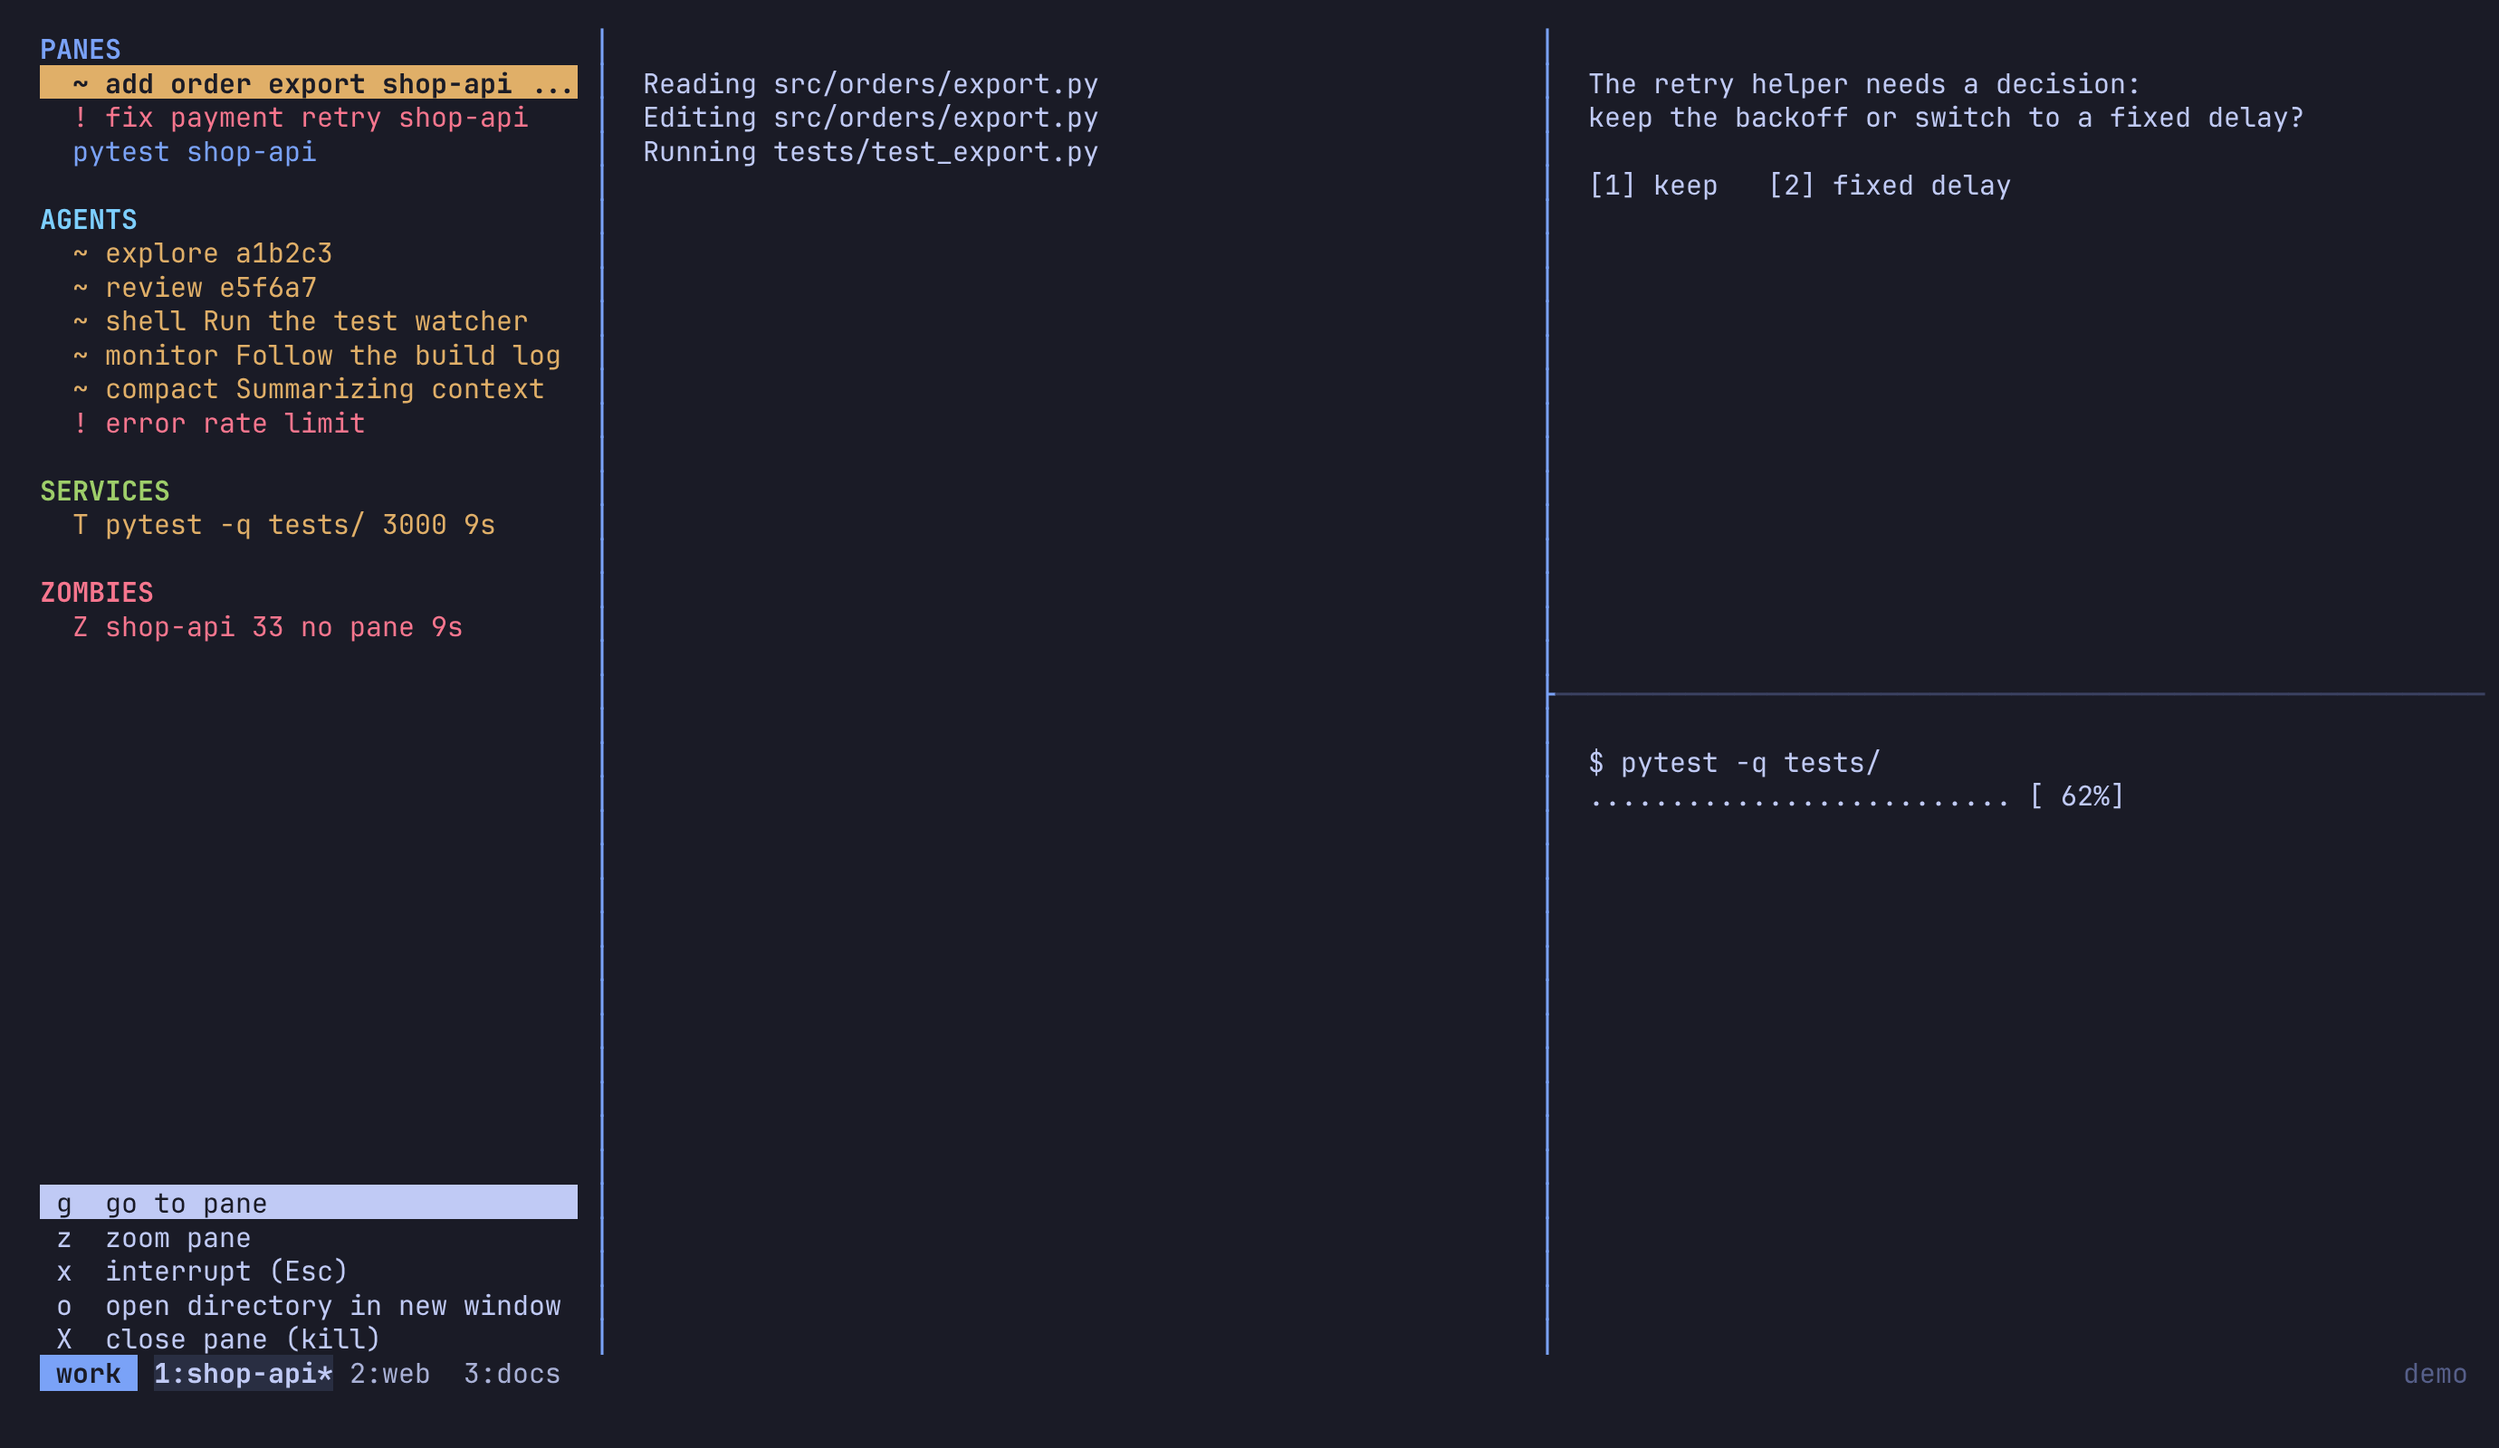
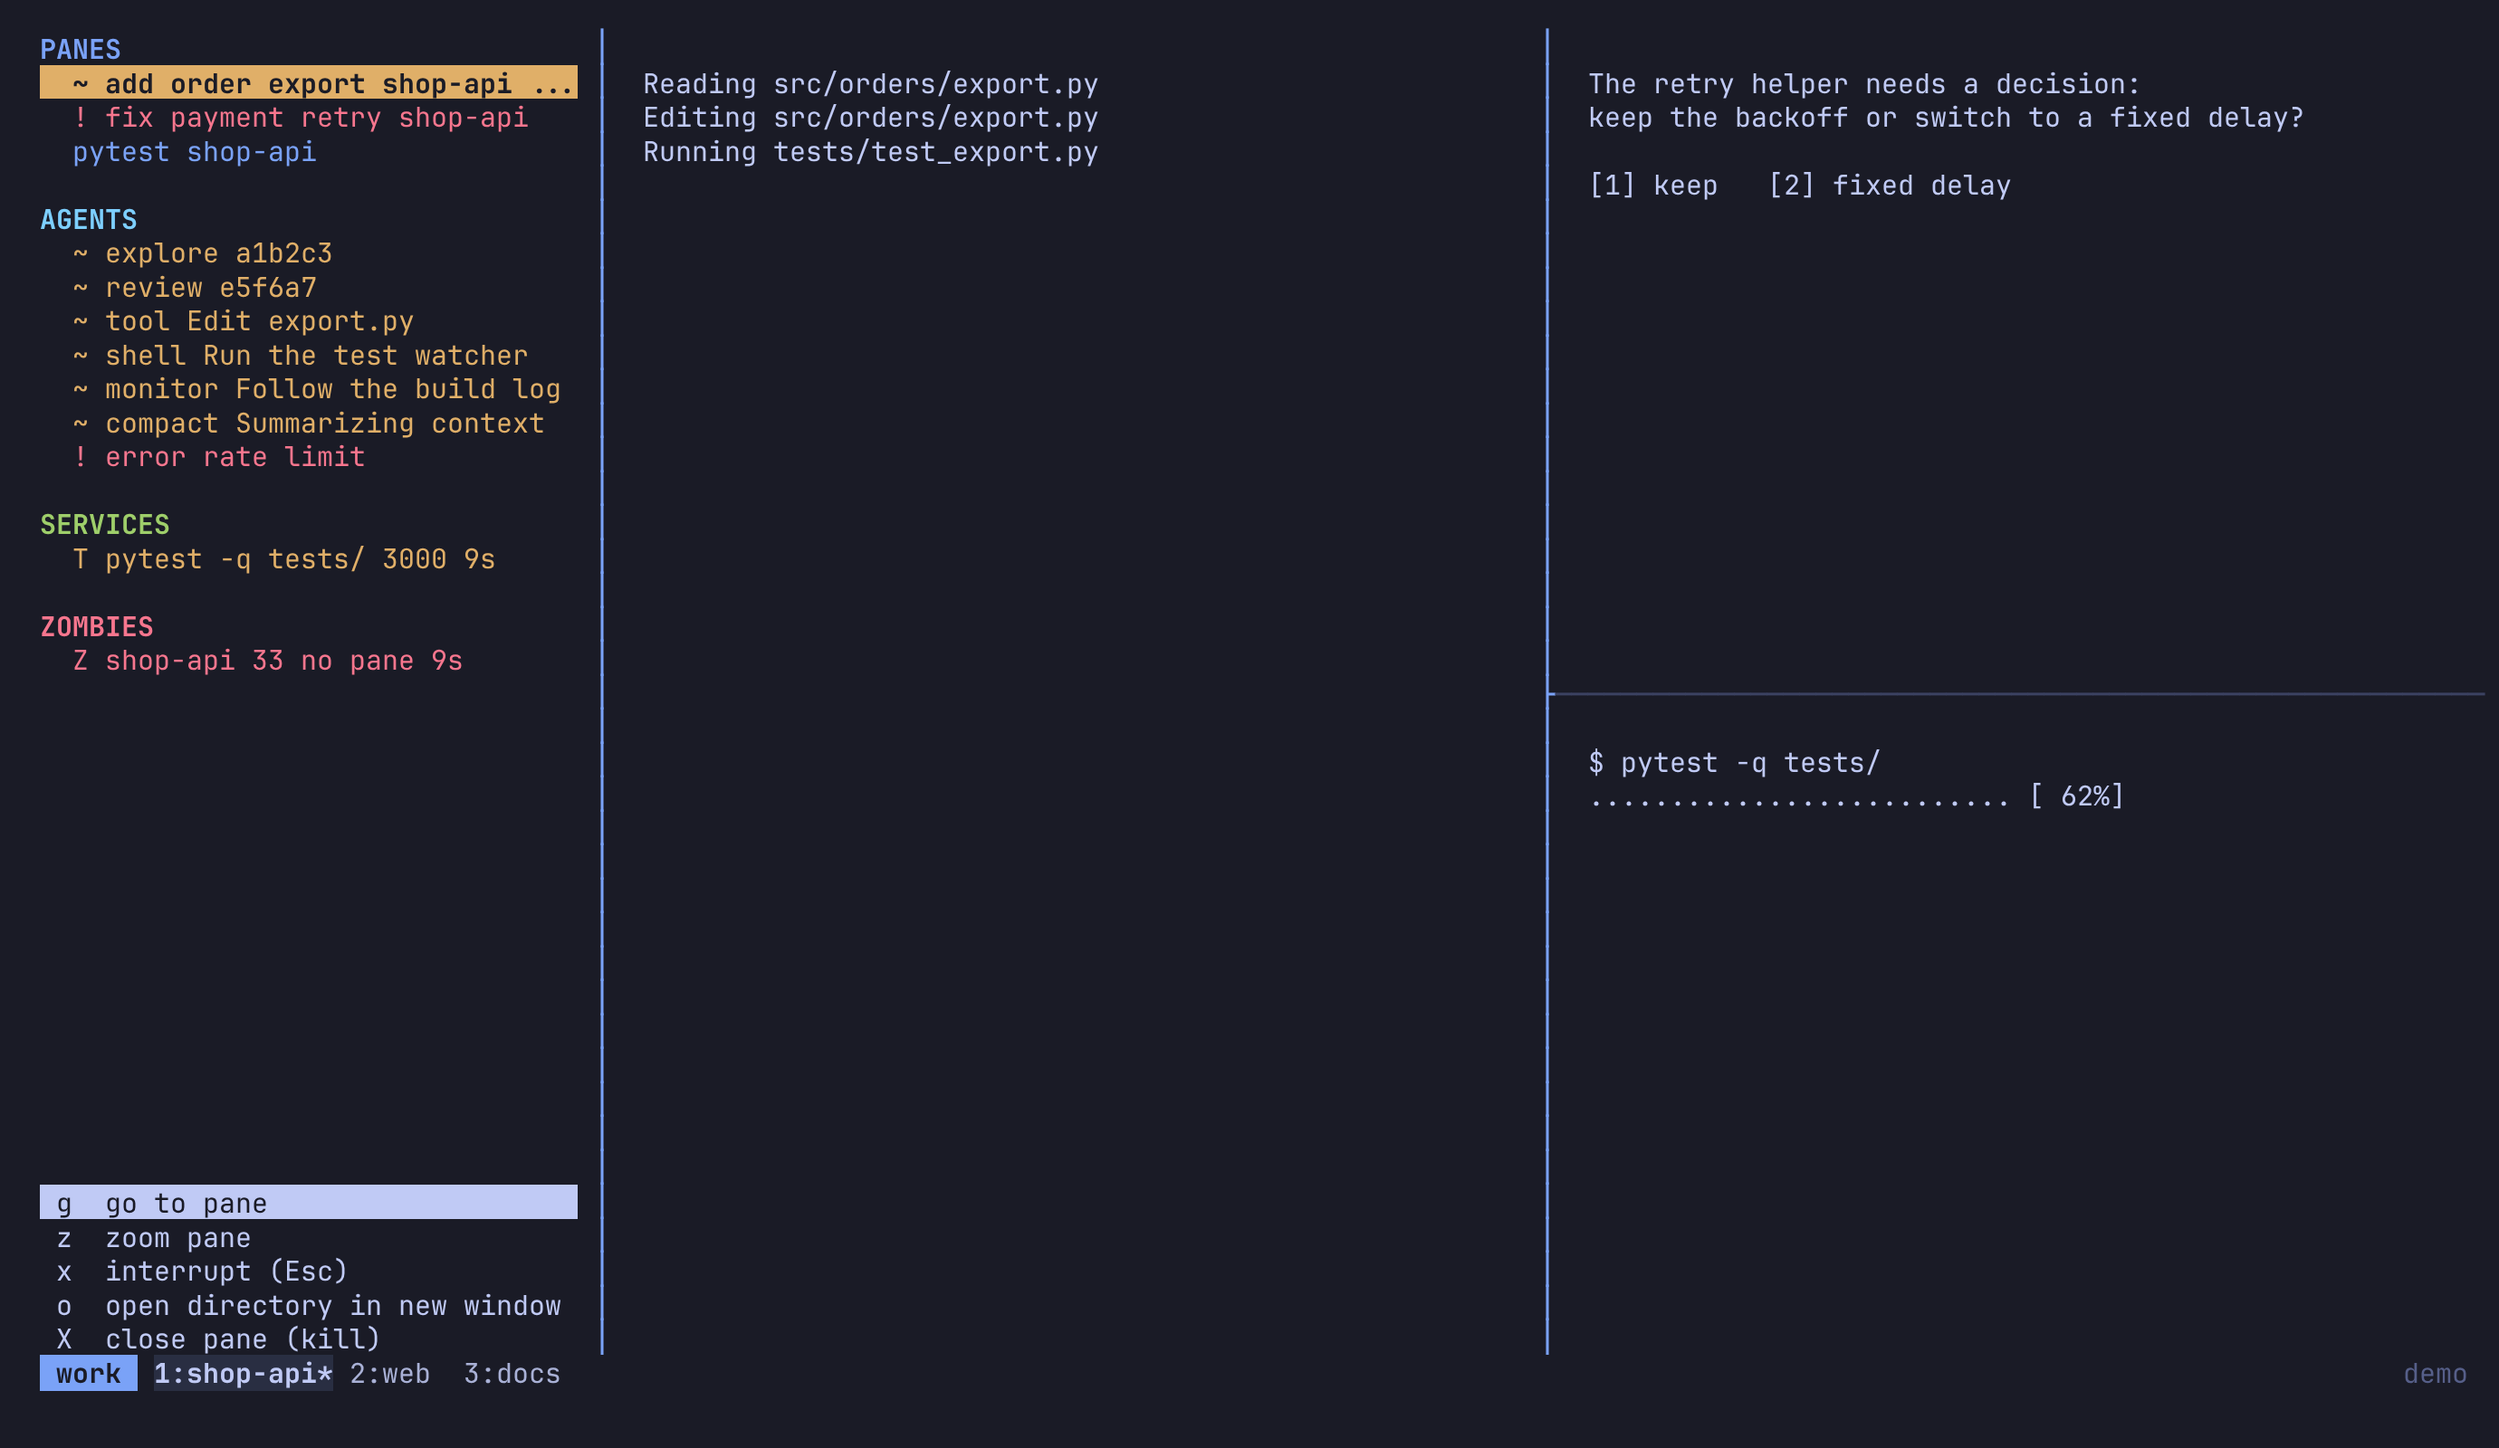
feat(panel): show the tool call each agent runs now

Changed region(s): [[0.0, 0.2188, 0.2181, 0.4688]]

diff --git a/src/tmux_sidepanel/hooks.py b/src/tmux_sidepanel/hooks.py
@@ -7,11 +7,13 @@ what should change. Applying the change to tmux is done elsewhere.
 import re
 from collections.abc import Callable
 from dataclasses import dataclass
+from pathlib import PurePosixPath
 from typing import Any
 
 from tmux_sidepanel.agents import Subagent, format_subagents, parse_subagents
 
 UNSAFE_CHARACTERS = re.compile(r"[^A-Za-z0-9_-]")
+UNSAFE_DESCRIPTION_CHARACTERS = re.compile(r"[^A-Za-z0-9_.-]")
 
 NOTIFICATION_STATES = {
     "permission_prompt": "blocked",
@@ -108,6 +110,9 @@ def keep_subagents(subagents: list[Subagent], subagent: Subagent) -> list[Subage
 
 SUBAGENT_UPDATES = {"sub-start": with_subagent, "sub-stop": without_subagent}
 MAX_TASK_DESCRIPTION = 40
+PATH_KEYS = ("file_path", "notebook_path")
+DESCRIBED_TOOLS = ("Bash", "Agent", "Task")
+MCP_PREFIX = "mcp__"
 COMPACTION = Subagent("compaction", "compact", "Summarizing_context")
 
 
@@ -120,7 +125,7 @@ def updated_subagents(current: str, action: str, payload: dict[str, Any]) -> str
 
 
 def task_entry(identifier: Any, kind: Any, description: Any = "") -> Subagent:
-    text = sanitized_token(description, "")[:MAX_TASK_DESCRIPTION]
+    text = UNSAFE_DESCRIPTION_CHARACTERS.sub("_", str(description))[:MAX_TASK_DESCRIPTION]
     return Subagent(sanitized_token(identifier, ""), sanitized_token(kind, "task"), text)
 
 
@@ -146,6 +151,29 @@ def started_task(payload: dict[str, Any]) -> Subagent:
     return task_entry(identifier, "shell", description)
 
 
+def tool_target(payload: dict[str, Any]) -> str:
+    """What a tool call works on, for a person to read. Never a command, a URL or a pattern."""
+    name = str(payload.get("tool_name", ""))
+    tool_input = payload.get("tool_input")
+    arguments = tool_input if isinstance(tool_input, dict) else {}
+    path = next(filter(None, map(arguments.get, PATH_KEYS)), "")
+    description = arguments.get("description", "") if name in DESCRIBED_TOOLS else ""
+    if name.startswith(MCP_PREFIX):
+        return name.removeprefix(MCP_PREFIX).replace("__", " ")
+    return f"{name} {PurePosixPath(str(path)).name if path else description}".strip()
+
+
+def tool_row(payload: dict[str, Any]) -> Subagent:
+    return task_entry(
+        sanitized_token(payload.get("tool_use_id", ""), ""), "tool", tool_target(payload)
+    )
+
+
+def add_tool(tasks: list[Subagent], payload: dict[str, Any]) -> list[Subagent]:
+    row = tool_row(payload)
+    return with_subagent(tasks, row) if row.has_identifier() else tasks
+
+
 def add_compaction(tasks: list[Subagent], payload: dict[str, Any]) -> list[Subagent]:
     return with_subagent(tasks, COMPACTION)
 
@@ -159,7 +187,18 @@ def add_failure(tasks: list[Subagent], payload: dict[str, Any]) -> list[Subagent
     return with_subagent(tasks, task_entry(FAILURE.identifier, FAILURE.kind, reason))
 
 
-TASK_UPDATES = {"compacting": add_compaction, "compacted": remove_compaction, "failed": add_failure}
+TASK_UPDATES = {
+    "compacting": add_compaction,
+    "compacted": remove_compaction,
+    "failed": add_failure,
+    "tool-start": add_tool,
+}
+
+
+def without_ended_work(tasks: list[Subagent], payload: dict[str, Any]) -> list[Subagent]:
+    """New work means the failure is over, and the tool call of the event is done."""
+    ended_tool = Subagent(sanitized_token(payload.get("tool_use_id", ""), ""), "tool")
+    return without_subagent(without_subagent(tasks, FAILURE), ended_tool)
 
 
 def updated_tasks(current: str, action: str, payload: dict[str, Any]) -> str:
@@ -173,7 +212,7 @@ def updated_tasks(current: str, action: str, payload: dict[str, Any]) -> str:
         return format_subagents(TASK_UPDATES[action](tasks, payload))
     if "background_tasks" in payload:
         return format_subagents(snapshot_tasks(payload))
-    working = without_subagent(tasks, FAILURE) if action == "working" else tasks
+    working = without_ended_work(tasks, payload) if action == "working" else tasks
     started = started_task(payload)
     return format_subagents(
         with_subagent(working, started) if started.has_identifier() else working

diff --git a/tests/test_hooks.py b/tests/test_hooks.py
@@ -231,3 +231,61 @@ class TestFailure:
         assert updated_tasks("old1:shell", "failed", {"error": "rate_limit"}) == (
             f"old1:shell {self.ENTRY}"
         )
+
+
+def tool_call(name="Edit", identifier="toolu_01", **tool_input):
+    return {"tool_name": name, "tool_use_id": identifier, "tool_input": tool_input}
+
+
+class TestToolRows:
+    def test_a_file_tool_lists_the_name_of_the_file(self):
+        payload = tool_call("Edit", file_path="/home/someone/project/src/export.py")
+        assert updated_tasks("", "tool-start", payload) == "toolu_01:tool:Edit_export.py"
+
+    def test_a_notebook_tool_lists_the_name_of_the_notebook(self):
+        payload = tool_call("NotebookEdit", notebook_path="/home/someone/analysis.ipynb")
+        assert (
+            updated_tasks("", "tool-start", payload) == "toolu_01:tool:NotebookEdit_analysis.ipynb"
+        )
+
+    def test_a_command_lists_its_description(self):
+        payload = tool_call("Bash", command="pytest -q", description="Run the tests")
+        assert updated_tasks("", "tool-start", payload) == "toolu_01:tool:Bash_Run_the_tests"
+
+    def test_a_command_without_a_description_lists_only_the_tool(self):
+        payload = tool_call("Bash", command="curl -H 'Authorization: Bearer SECRET123' host")
+        entry = updated_tasks("", "tool-start", payload)
+        assert entry == "toolu_01:tool:Bash"
+        assert "SECRET123" not in entry
+
+    def test_a_tool_of_an_mcp_server_lists_the_server_and_the_tool(self):
+        payload = tool_call("mcp__trydent__list_orders", query="customer name")
+        assert updated_tasks("", "tool-start", payload) == "toolu_01:tool:trydent_list_orders"
+
+    def test_any_other_tool_lists_its_name_only(self):
+        payload = tool_call("Grep", pattern="password")
+        assert updated_tasks("", "tool-start", payload) == "toolu_01:tool:Grep"
+
+    def test_a_long_file_name_is_cut(self):
+        payload = tool_call("Read", file_path="/a/" + "x" * 80 + ".py")
+        assert len(updated_tasks("", "tool-start", payload).split(":")[2]) == 40
+
+    def test_a_call_without_an_identifier_adds_nothing(self):
+        assert updated_tasks("old1:shell", "tool-start", {"tool_name": "Edit"}) == "old1:shell"
+
+    def test_parallel_calls_are_listed_side_by_side(self):
+        first = updated_tasks(
+            "", "tool-start", tool_call("Read", "toolu_01", file_path="/a/one.py")
+        )
+        both = updated_tasks(
+            first, "tool-start", tool_call("Read", "toolu_02", file_path="/a/two.py")
+        )
+        assert both == "toolu_01:tool:Read_one.py toolu_02:tool:Read_two.py"
+
+    def test_the_end_of_a_call_removes_only_its_row(self):
+        current = "toolu_01:tool:Read_one.py toolu_02:tool:Read_two.py old1:shell"
+        ended = updated_tasks(current, "working", {"tool_use_id": "toolu_01"})
+        assert ended == "toolu_02:tool:Read_two.py old1:shell"
+
+    def test_a_tool_start_does_not_change_the_state(self):
+        assert state_change("tool-start", build_context()) == StateChange("keep")

diff --git a/tests/test_claude_plugin.py b/tests/test_claude_plugin.py
@@ -36,6 +36,8 @@ ACTION_BY_EVENT = {
     "PreCompact": "compacting",
     "PostCompact": "compacted",
     "StopFailure": "failed",
+    "PreToolUse": "tool-start",
+    "PostToolUseFailure": "working",
 }
 
 COMMAND_PATTERN = re.compile(
@@ -93,8 +95,10 @@ class TestHooks:
     def test_covers_exactly_the_expected_events(self):
         assert set(load_json(HOOKS_PATH)["hooks"]) == set(ACTION_BY_EVENT)
 
-    def test_never_gates_a_tool_call(self):
-        assert "PreToolUse" not in load_json(HOOKS_PATH)["hooks"]
+    def test_the_hook_before_a_tool_call_only_reports(self):
+        command = event_commands("PreToolUse")[0]
+        assert action_of(command) == "tool-start"
+        assert "decision" not in command
 
     @pytest.mark.parametrize("event_name", sorted(ACTION_BY_EVENT))
     def test_each_event_runs_one_command_with_the_right_action(self, event_name):

diff --git a/tests/test_hook_runner.py b/tests/test_hook_runner.py
@@ -254,3 +254,17 @@ class TestCost:
         ]
         assert window_state(tmux_client, pane) == "working"
         assert session_state(tmux_client, pane) == "working"
+
+    def test_a_tool_call_is_listed_until_it_ends_and_keeps_the_state(self, tmux_client):
+        pane = first_pane_of_window(tmux_client, "first")
+        hook(tmux_client, pane, "blocked")
+        call = {
+            "tool_name": "Bash",
+            "tool_use_id": "toolu_01",
+            "tool_input": {"description": "Test"},
+        }
+        hook(tmux_client, pane, "tool-start", call)
+        record = reload_pane(tmux_client, pane)
+        assert (record.agent_state, record.agent_tasks) == ("blocked", "toolu_01:tool:Bash_Test")
+        hook(tmux_client, pane, "working", {"tool_use_id": "toolu_01"})
+        assert reload_pane(tmux_client, pane).agent_tasks == ""

diff --git a/tests/test_pane_rows.py b/tests/test_pane_rows.py
@@ -146,6 +146,10 @@ class TestSubagentSection:
             "~ cron c1",
         ]
 
+    def test_a_tool_row_shows_the_tool_and_what_it_works_on(self):
+        pane = agent_pane(agent_tasks="toolu_01:tool:Edit_export.py")
+        assert texts(subagent_view(pane)) == ["~ tool Edit export.py"]
+
     def test_an_error_row_is_marked_as_blocked(self):
         pane = agent_pane(agent_state="blocked", agent_tasks="failure:error:rate_limit")
         view = subagent_view(pane)

diff --git a/tests/test_command_line.py b/tests/test_command_line.py
@@ -95,6 +95,7 @@ class TestUsage:
             "compacting",
             "compacted",
             "failed",
+            "tool-start",
             "reap",
         }
         assert set(HOOK_ACTIONS) == expected

diff --git a/README.md b/README.md
@@ -5,8 +5,8 @@
 A side panel for tmux. Each window gets a panel pane that shows what runs in that window:
 
 - the panes of the window, with the state of the coding agent in each pane
-- the subagents of those agents, and the background tasks of the session (commands, monitors,
-  workflows, scheduled tasks)
+- the subagents of those agents, the background tasks of the session (commands, monitors,
+  workflows, scheduled tasks) and the tool call that each agent runs now
 - services (test runners, dev servers, containers) and the containers of other projects
 - agent processes that no pane shows any more ("zombies")
 - sections of your own, filled by a command you choose
